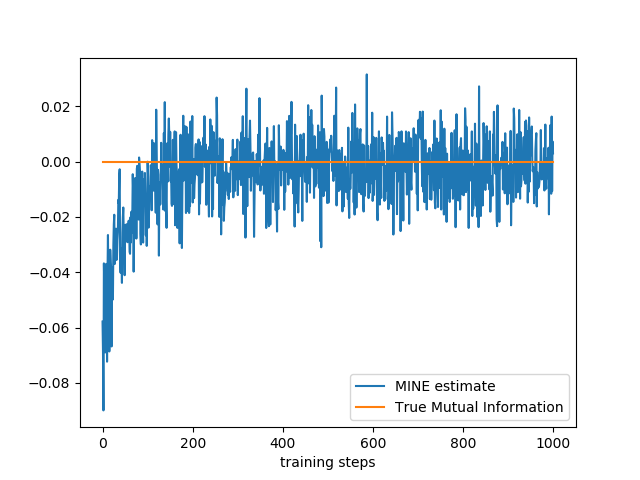
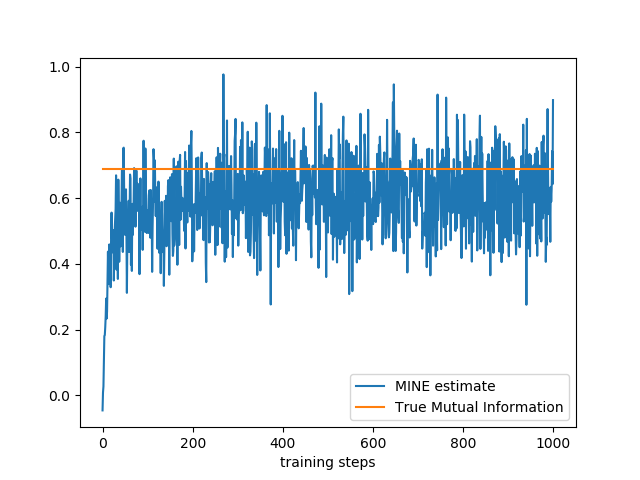
plot metric and MINE slow added

diff --git a/MI_detection/MINE/MINE_decoder_slow.py b/MI_detection/MINE/MINE_decoder_slow.py
@@ -37,7 +37,12 @@ def gaussian_noise_layer(input_layer, std, is_train):
     output = tf.cond(is_train, lambda: input_layer + noise, lambda: input_layer)
     return output
 
-def MINE(x_in, y_in, is_train, H, lr):
+def MINE(H):
+
+    x_in = tf.placeholder(tf.float32, [None, 1], name='x_in')
+    y_in = tf.placeholder(tf.float32, [None, 1], name='y_in')
+    is_train = tf.placeholder(tf.bool)
+    lr = tf.placeholder(tf.float32)
     
     # shuffle and concatenate
     y_shuffle = tf.random_shuffle(y_in)
@@ -63,14 +68,14 @@ def MINE(x_in, y_in, is_train, H, lr):
     neg_loss = -(tf.reduce_mean(T_xy, axis=0) - tf.log(tf.reduce_mean(tf.exp(T_x_y))))
     opt = tf.train.AdamOptimizer(learning_rate=lr).minimize(neg_loss)
 
-    return neg_loss, opt
+    return x_in, y_in, is_train, lr, neg_loss, opt
 
 def main(args):
     ### Generate Data
     prob = args.prob
     snr = args.snr
     window = args.window
-    test_points = 10000
+    test_points = 1000
     X, Y1, Y2 = gen_data(p=prob, SNR=snr, N=100000, A=1)
 
     ### Get MI
@@ -86,64 +91,48 @@ def main(args):
     mina = mi_numerical
 
     # prepare the placeholders for inputs
-    x_in = tf.placeholder(tf.float32, [None, 1], name='x_in')
-    y_in = tf.placeholder(tf.float32, [None, 1], name='y_in')
-    is_train = tf.placeholder(tf.bool)
-    learning_rate = tf.placeholder(tf.float32)
+    
 
     # make the loss and optimisation graphs
-    neg_loss, opt = MINE(x_in, y_in, is_train, 20, learning_rate)
+    x_in, y_in, is_train, learning_rate, neg_loss, opt = MINE(20)
 
     # start the session
-    sess = tf.InteractiveSession()
+    sess = tf.Session()
     sess.run(tf.global_variables_initializer())
 
     # train
     MIAs = []
     MINAs = []
-    for epoch in range(n_epochs):
-        
-        # generate the data
-        # x_sample=gen_x()
-        # y_sample=gen_y(x_sample)
-        _, Y1A, Y2A = gen_data(p=prob, SNR=snr, N=window, A=1)
-        Y1A = Y1A.reshape(-1, 1)
-        Y2A = Y2A.reshape(-1, 1)
-        _, Y1NA, Y2NA = gen_data(p=prob, SNR=snr, N=window, A=0)
-        Y1NA = Y1NA.reshape(-1, 1)
-        Y2NA = Y2NA.reshape(-1, 1)
 
-        Y1 = np.concatenate([Y1A, Y1NA], axis=0)
-        Y2 = np.concatenate([Y2A, Y2NA], axis=0)
+    _, Y1, Y2 = gen_data(p=prob, SNR=snr, N=window, A=1)
+    Y1 = Y1.reshape(-1, 1)
+    Y2 = Y2.reshape(-1, 1)
+
+    for epoch in range(n_epochs):
+
         # perform the training step
         feed_dict = {x_in:Y1, y_in:Y2, is_train: True, learning_rate: lr(epoch)}
         _, neg_l = sess.run([opt, neg_loss], feed_dict=feed_dict)
-        
-        # save the loss
-        _, Y1, Y2 = gen_data(p=prob, SNR=snr, N=window, A=1)
-        Y1 = Y1.reshape(-1, 1)
-        Y2 = Y2.reshape(-1, 1)
-        
-        # perform the training step
-        feed_dict = {x_in:Y1, y_in:Y2, is_train: False, learning_rate: lr(epoch)}
-        neg_l, = sess.run([neg_loss], feed_dict=feed_dict)
-        
+
         # save the loss
         MIAs.append(-neg_l)
 
-        _, Y1, Y2 = gen_data(p=prob, SNR=snr, N=window, A=0)
-        Y1 = Y1.reshape(-1, 1)
-        Y2 = Y2.reshape(-1, 1)
-        
+    # x_in, y_in, is_train, learning_rate, neg_loss, opt = MINE(20)
+    sess.run(tf.global_variables_initializer())
+
+    _, Y1, Y2 = gen_data(p=prob, SNR=snr, N=window, A=0)
+    Y1 = Y1.reshape(-1, 1)
+    Y2 = Y2.reshape(-1, 1)
+
+    for epoch in range(n_epochs):
+
         # perform the training step
-        feed_dict = {x_in:Y1, y_in:Y2, is_train: False, learning_rate: lr(epoch)}
-        neg_l, = sess.run([neg_loss], feed_dict=feed_dict)
-        
+        feed_dict = {x_in:Y1, y_in:Y2, is_train: True, learning_rate: lr(epoch)}
+        _, neg_l, = sess.run([opt, neg_loss], feed_dict=feed_dict)
+
         # save the loss
         MINAs.append(-neg_l)
 
-    feed_dict = {x_in:Y1, y_in:Y2, is_train: False}
-    neg_l, = sess.run([neg_loss], feed_dict=feed_dict)
 
     A_list = MIAs[-400:]
     NA_list = MINAs[-400:]
@@ -162,7 +151,7 @@ def main(args):
     ax.legend(loc='best')
     title = "SNR=" + str(snr) + "window=" + str(window) + "prob=" + str(prob)
     ax.set_title(title)
-    path = "figs_check/MINE_shuffled" + title + ".png"
+    path = "figs_slow/MINE_" + title + ".png"
     fig.savefig(path)
     # fig.show()
 
@@ -171,18 +160,24 @@ def main(args):
 
     for i in range(test_points):
         _, valY1, valY2 = gen_data(p=prob, SNR=snr, N=window, A=0)
-        feed_dict = {x_in:valY1, y_in:valY2, is_train: False}
-        neg_l, = sess.run([neg_loss], feed_dict=feed_dict)
+        sess.run(tf.global_variables_initializer())
+        for i in range(500):
+            feed_dict = {x_in:valY1, y_in:valY2, is_train: True, learning_rate: lr(i)}
+            _, neg_l, = sess.run([opt, neg_loss], feed_dict=feed_dict)
         MI = -neg_l
         if MI < thresh:
             misdetections += 1
 
         _, valY1, valY2 = gen_data(p=prob, SNR=snr, N=window, A=1)
-        feed_dict = {x_in:valY1, y_in:valY2, is_train: False}
-        neg_l, = sess.run([neg_loss], feed_dict=feed_dict)
+        sess.run(tf.global_variables_initializer())
+        for i in range(500):
+            feed_dict = {x_in:valY1, y_in:valY2, is_train: True, learning_rate: lr(i)}
+            _, neg_l, = sess.run([opt, neg_loss], feed_dict=feed_dict)
         MI = -neg_l
         if MI > thresh:
             false_alrams += 1
+
+        print(misdetections, false_alrams)
 
     MR = misdetections*1.0 / test_points
     FAR = false_alrams*1.0 / test_points

diff --git a/MI_detection/MINE/MINE.py b/MI_detection/MINE/MINE.py
@@ -10,11 +10,11 @@ n_epochs = 1000
 
 def lr(epoch):
     if epoch <300:
-        return 1e-3
+        return 1e-2
     if epoch <500:
-        return 1e-4
+        return 1e-3
     else:
-        return 5e-5
+        return 1e-3
 
 def gaussian_noise_layer(input_layer, std, is_train):
     noise = tf.random_normal(shape=tf.shape(input_layer), mean=0.0, stddev=std, dtype=tf.float32)
@@ -25,7 +25,6 @@ def MINE(x_in, y_in, is_train, H, lr):
     
     # shuffle and concatenate
     y_shuffle = tf.random_shuffle(y_in)
-    print(len([x_in]*10))
     x_conc = tf.concat([x_in, x_in], axis=0)
     y_conc = tf.concat([y_in, y_shuffle], axis=0)
     
@@ -51,7 +50,7 @@ def MINE(x_in, y_in, is_train, H, lr):
 
 def main():
     ### Generate Data
-    X, Y1, Y2 = gen_data(p=0.5, SNR=0.0, N=100000, A=1)
+    X, Y1, Y2 = gen_data(p=0.5, SNR=10.0, N=100000, A=0)
 
     ### Get MI
     mi_numerical = mutual_info_regression(Y1.reshape(-1, 1), Y2.ravel())[0]
@@ -76,16 +75,17 @@ def main():
 
     # train
     MIs = []
+    _, Y1, Y2 = gen_data(p=0.5, SNR=10.0, N=100, A=0)
+    Y1 = Y1.reshape(-1, 1)
+    Y2 = Y2.reshape(-1, 1)
+    indices = np.arange(len(Y1))
     for epoch in range(n_epochs):
-        
+        np.random.shuffle(indices)
         # generate the data
         # x_sample=gen_x()
         # y_sample=gen_y(x_sample)
-        _, Y1, Y2 = gen_data(p=0.5, SNR=0.0, N=50, A=1)
-        Y1 = Y1.reshape(-1, 1)
-        Y2 = Y2.reshape(-1, 1)
         # perform the training step
-        feed_dict = {x_in:Y1, y_in:Y2, is_train: False, learning_rate: lr(epoch)}
+        feed_dict = {x_in:Y1, y_in:Y2, is_train: True, learning_rate: lr(epoch)}
         _, neg_l = sess.run([opt, neg_loss], feed_dict=feed_dict)
         
         # save the loss

diff --git a/MI_detection/MINE/MINE_double.py b/MI_detection/MINE/MINE_double.py
@@ -89,7 +89,7 @@ def main():
         # generate the data
         # x_sample=gen_x()
         # y_sample=gen_y(x_sample)
-        _, Y1, Y2 = gen_data(p=0.5, SNR=0.0, N=100, A=1)
+        _, Y1, Y2 = gen_data(p=0.5, SNR=0.0, N=20, A=1)
         Y1 = Y1.reshape(-1, 1)
         Y2 = Y2.reshape(-1, 1)
         # perform the training step
@@ -99,7 +99,7 @@ def main():
         # save the loss
         MIAs.append(-neg_l)
 
-        _, Y1, Y2 = gen_data(p=0.5, SNR=0.0, N=100, A=0)
+        _, Y1, Y2 = gen_data(p=0.5, SNR=0.0, N=20, A=0)
         Y1 = Y1.reshape(-1, 1)
         Y2 = Y2.reshape(-1, 1)
         # perform the training step

diff --git a/MI_detection/MINE/plot_metrics.py b/MI_detection/MINE/plot_metrics.py
@@ -1,0 +1,19 @@
+import pandas as pd
+import numpy as np
+import matplotlib.pyplot as plt
+
+df = pd.read_csv('results.csv')
+df = df.sort_values(['window'])
+print(df)
+snrs = np.unique(df['SNR'].values)
+for i in snrs:
+	temp = df.loc[df['SNR'] == i]
+	lab = "MR - SNR=" + str(i)
+	plt.plot(temp['window'], temp['MR'], label=lab)
+	lab = "FAR - SNR=" + str(i)
+	plt.plot(temp['window'], temp['FAR'], label=lab)
+
+plt.xlabel('Frame Lengths')
+plt.ylabel('MR and FAR')
+plt.legend()
+plt.show()
